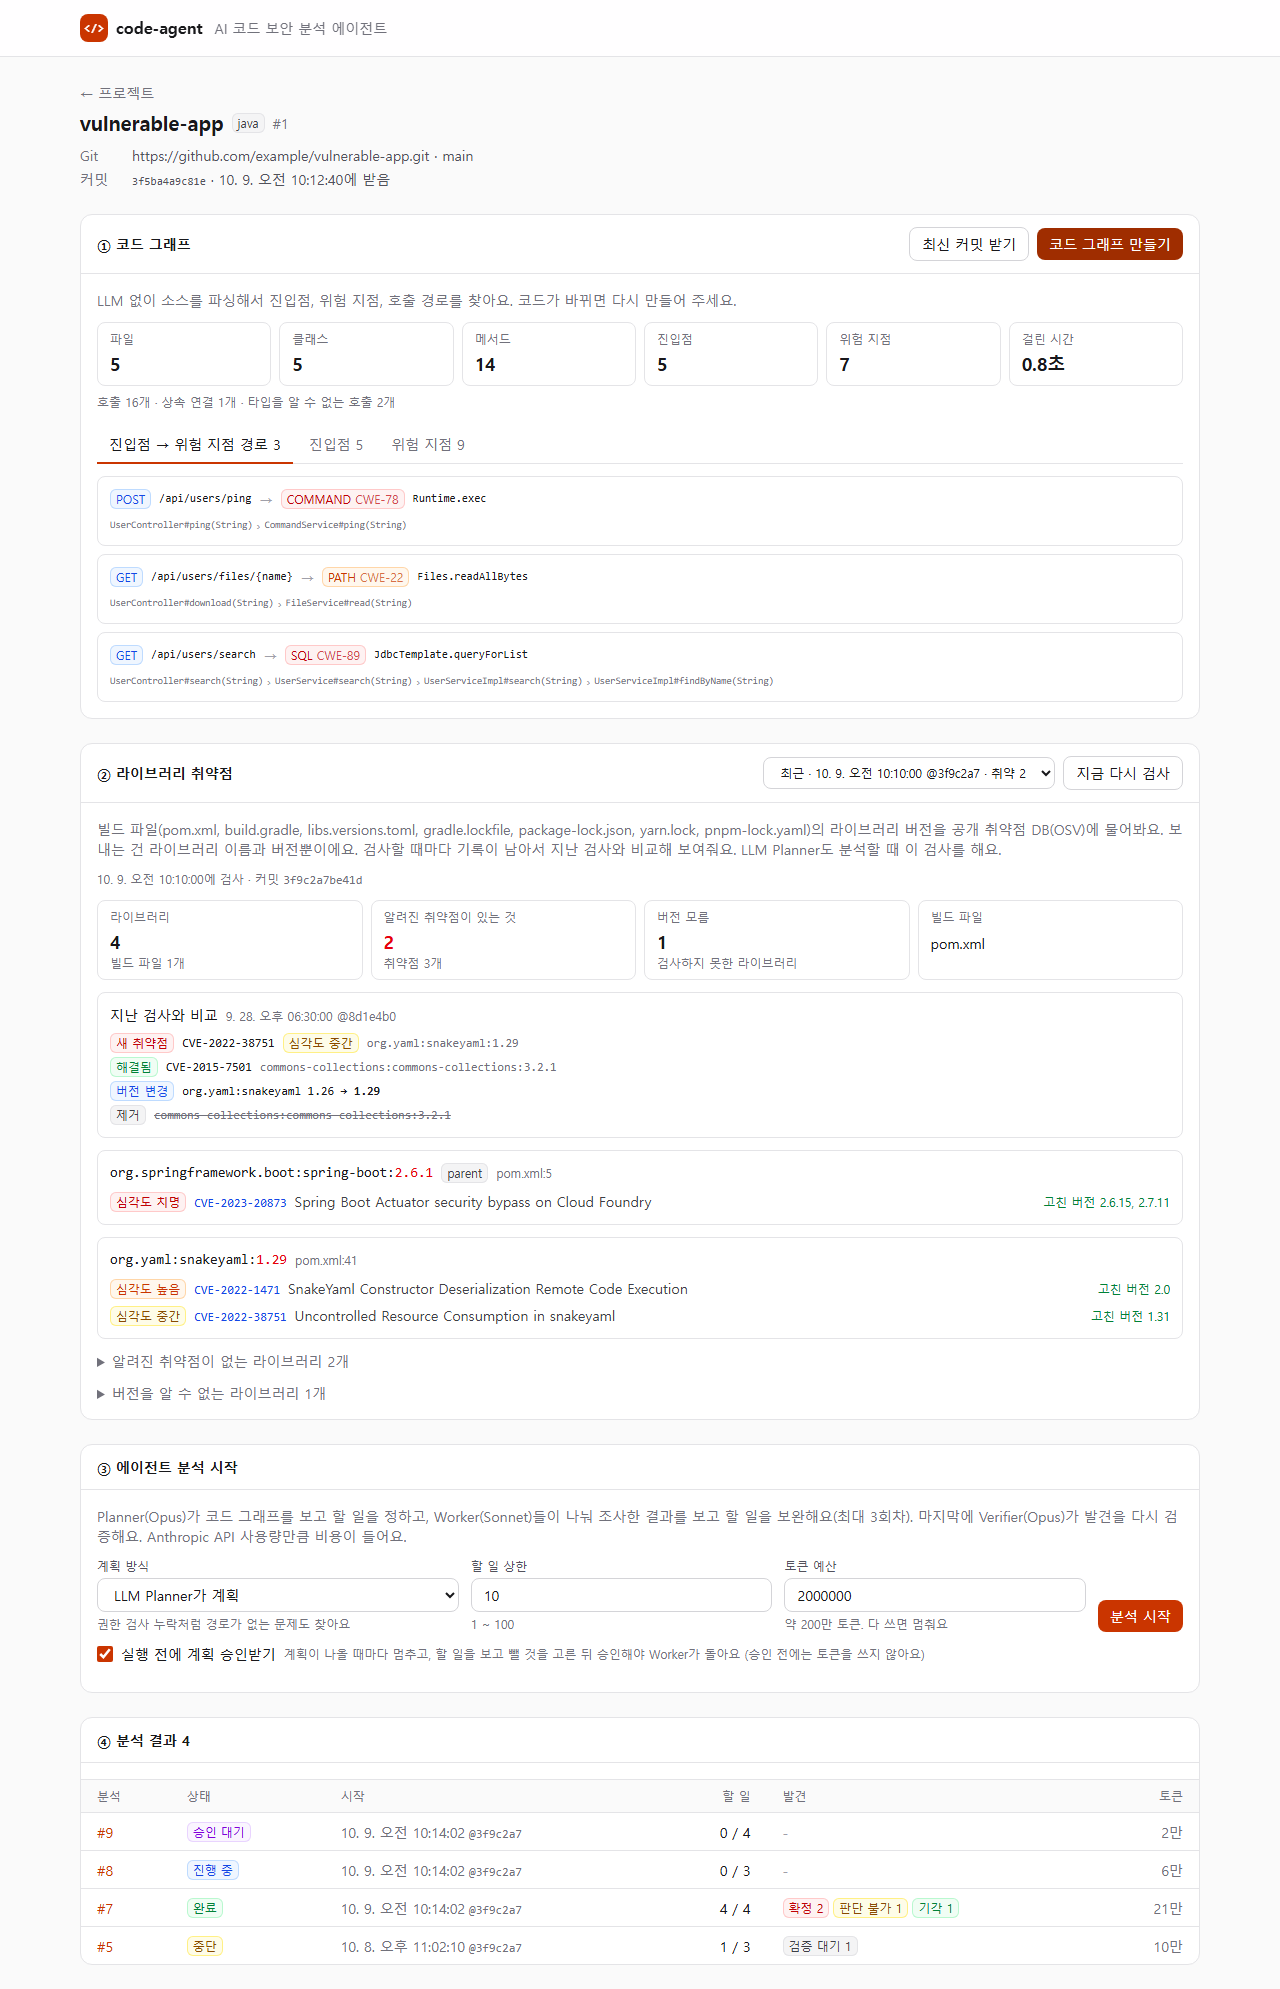
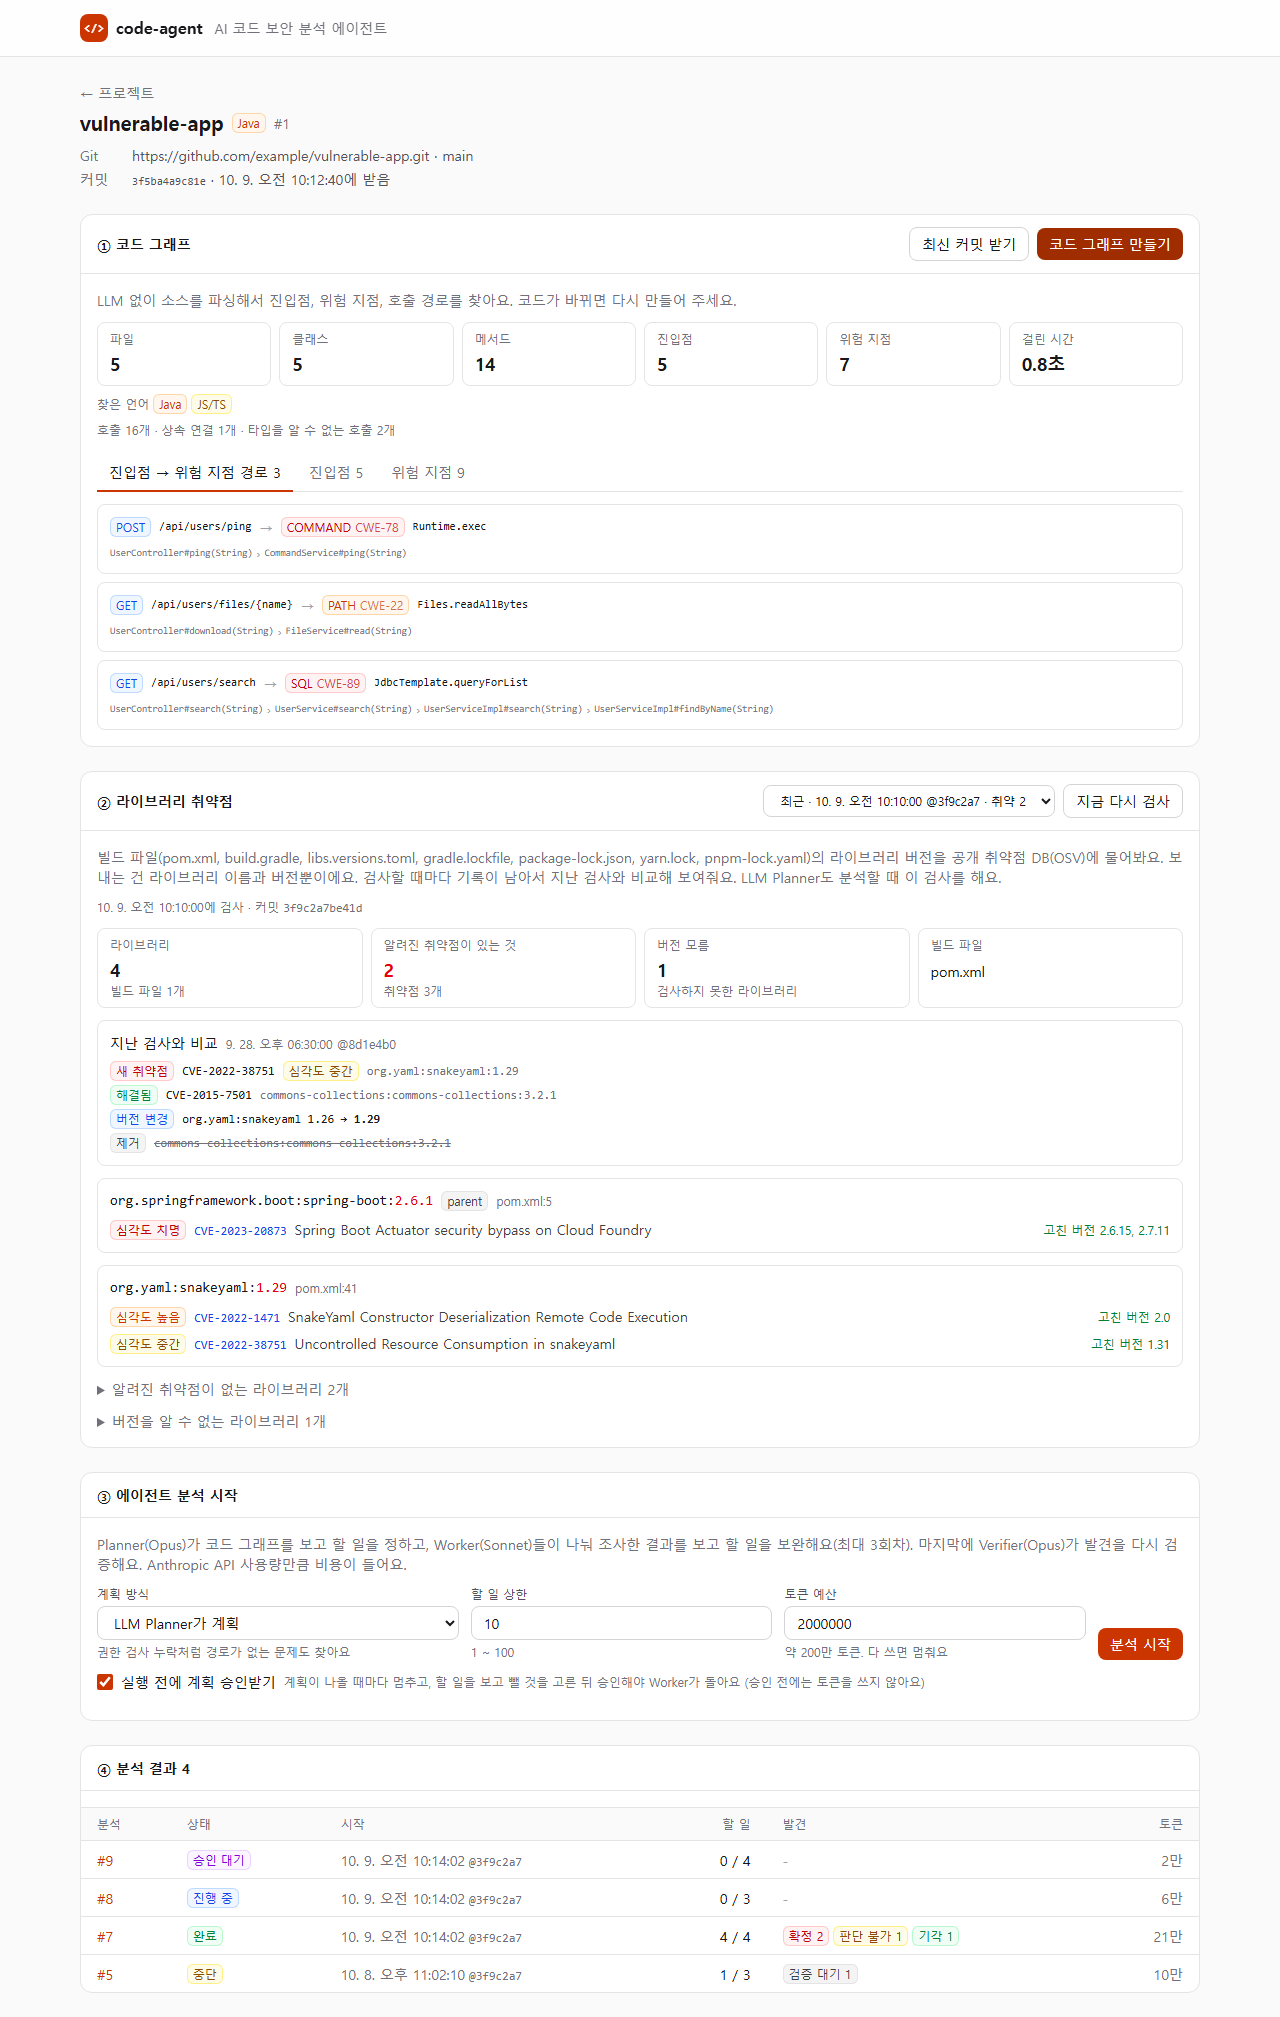
Show language badges, FastAPI Depends and Python sinks

diff --git a/src/pages/ProjectPage.tsx b/src/pages/ProjectPage.tsx
@@ -12,7 +12,7 @@ import {
 } from '../api/hooks'
 import type { IndexResult, PlannerMode, SinkPathView } from '../api/types'
 import { Badge, Button, Card, Code, Empty, ErrorBox, Field, inputClass, Loading, Stat, Tabs } from '../components/ui'
-import { CategoryBadge, JobStatusBadge } from '../components/status'
+import { CategoryBadge, JobStatusBadge, LanguageBadge, LanguageBadges } from '../components/status'
 import DependencyCard from './project/DependencyCard'
 import { formatDateTime, formatNumber, formatTokens, location, shortName } from '../lib/format'
 
@@ -35,7 +35,7 @@ export default function ProjectPage() {
         <Link to="/" className="text-sm text-zinc-500 hover:underline">← 프로젝트</Link>
         <div className="mt-1 flex flex-wrap items-center gap-2">
           <h1 className="text-xl font-semibold">{p.name}</h1>
-          <Badge>{p.language}</Badge>
+          <LanguageBadges language={p.language} />
           <span className="text-sm text-zinc-500">#{p.id}</span>
         </div>
         <dl className="mt-2 grid gap-x-6 gap-y-1 text-sm text-zinc-600 sm:grid-cols-[auto_1fr] dark:text-zinc-400">
@@ -108,6 +108,11 @@ function IndexSummary({ result }: { result: IndexResult }) {
         <Stat label="위험 지점" value={formatNumber(result.sinks)} />
         <Stat label="걸린 시간" value={`${(result.elapsedMs / 1000).toFixed(1)}초`} />
       </div>
+      {result.languages && result.languages.length > 0 && (
+        <p className="flex items-center gap-1 text-xs text-zinc-500">
+          찾은 언어 {result.languages.map((l) => <LanguageBadge key={l} language={l} />)}
+        </p>
+      )}
       <p className="text-xs text-zinc-500">
         호출 {formatNumber(result.callEdges)}개 · 상속 연결 {formatNumber(result.overrideEdges)}개 · 타입을 알 수 없는 호출{' '}
         {formatNumber(result.unresolvedCalls)}개
@@ -156,6 +161,11 @@ function CodeGraphTabs({ projectId }: { projectId: number }) {
                     <Badge tone="blue">{e.httpMethod}</Badge>
                     <Code className="font-medium">{e.path}</Code>
                     <span className="text-xs text-zinc-500">{shortName(e.handler)}</span>
+                    {e.dependencies && (e.dependencies.length > 0 ? (
+                      <span className="text-xs text-zinc-500">Depends: {e.dependencies.map(shortName).join(', ')}</span>
+                    ) : (
+                      <Badge tone="yellow">Depends 없음</Badge>
+                    ))}
                   </li>
                 ))}
               </ul>
@@ -171,6 +181,7 @@ function CodeGraphTabs({ projectId }: { projectId: number }) {
                     <div className="flex flex-wrap items-center gap-2">
                       <CategoryBadge category={s.category} cwe={s.cwe} />
                       {s.frontend && <Badge tone="blue">프론트엔드</Badge>}
+                      {s.language === 'python' && <LanguageBadge language="python" />}
                       <Code>{s.api}</Code>
                     </div>
                     <div className="mt-1 text-xs text-zinc-500">

diff --git a/e2e/mockApi.ts b/e2e/mockApi.ts
@@ -57,7 +57,32 @@ export const indexResult: IndexResult = {
   retainedNodes: 0,
   parseErrors: [],
   elapsedMs: 842,
+  languages: ['java', 'javascript'],
 }
+
+/** Python(FastAPI) 저장소 예시 */
+const pythonProject: Project = {
+  id: 4,
+  name: 'netinv',
+  repoPath: '/workspace/netinv',
+  language: 'python',
+  gitUrl: 'https://github.com/example/netinv.git',
+  gitBranch: 'main',
+  commitSha: '9a8b7c6d5e4f30211a2b3c4d5e6f708192a3b4c5',
+  syncedAt: '2026-10-10T02:00:10Z',
+  createdAt: '2026-10-10T02:00:00Z',
+}
+
+const pythonEntryPoints: EntryPointView[] = [
+  { id: 401, httpMethod: 'POST', path: '/api/scan/nmap', handler: 'app.routers.scan.run_nmap', filePath: 'app/routers/scan.py', line: 18, dependencies: ['app.deps.get_current_user'] },
+  { id: 402, httpMethod: 'GET', path: '/api/scan/fetch', handler: 'app.routers.scan.fetch', filePath: 'app/routers/scan.py', line: 28, dependencies: [] },
+]
+
+const pythonSinks: SinkView[] = [
+  { id: 411, category: 'COMMAND', cwe: 'CWE-78', api: 'asyncio.create_subprocess_exec', method: 'app.services.scanner.run_nmap', snippet: 'asyncio.create_subprocess_exec("nmap", "-sV", target)', filePath: 'app/services/scanner.py', line: 7, language: 'python' },
+  { id: 412, category: 'COMMAND', cwe: 'CWE-88', api: 'nmap.PortScanner.scan', method: 'app.services.scanner.scan_with_lib', snippet: 'nm.scan(hosts=hosts, arguments="-sV")', filePath: 'app/services/scanner.py', line: 14, language: 'python' },
+  { id: 413, category: 'SSRF', cwe: 'CWE-918', api: 'httpx.Client.get', method: 'app.routers.scan.fetch', snippet: 'client.get(url)', filePath: 'app/routers/scan.py', line: 31, language: 'python' },
+]
 
 const entryPoints: EntryPointView[] = [
   { id: 101, httpMethod: 'GET', path: '/api/users/search', handler: `${PKG}.web.UserController#search(String)`, filePath: 'src/main/java/com/example/vuln/web/UserController.java', line: 30 },
@@ -356,7 +381,12 @@ export async function mockApi(page: Page) {
     const path = url.pathname
     const method = route.request().method()
 
-    if (path === '/api/projects' && method === 'GET') return json(route, [project, otherProject])
+    if (path === '/api/projects' && method === 'GET') return json(route, [project, otherProject, pythonProject])
+    if (path === '/api/projects/4/code-graph/entry-points') return json(route, pythonEntryPoints)
+    if (path === '/api/projects/4/code-graph/sinks') return json(route, pythonSinks)
+    if (path === '/api/projects/4/code-graph/sink-paths') return json(route, [])
+    if (path === '/api/projects/4/analyses') return json(route, [])
+    if (path === '/api/projects/4/dependency-scans') return json(route, [])
     if (path === '/api/projects' && method === 'POST') {
       const body = route.request().postDataJSON()
       if (body.gitUrl?.startsWith('http://')) return json(route, { title: 'Bad Request', status: 400, detail: 'https 주소만 허용함' }, 400)

diff --git a/e2e/app.spec.ts b/e2e/app.spec.ts
@@ -9,9 +9,12 @@ test.describe('프로젝트 목록', () => {
   test('등록된 저장소를 최신순으로 보여준다', async ({ page }) => {
     await page.goto('/')
     const items = page.getByRole('listitem')
-    await expect(items).toHaveCount(2)
-    await expect(items.first()).toContainText('spring-petclinic')
-    await expect(items.nth(1)).toContainText('vulnerable-app')
+    await expect(items).toHaveCount(3)
+    await expect(items.first()).toContainText('netinv')
+    await expect(items.first()).toContainText('Python')
+    await expect(items.nth(1)).toContainText('spring-petclinic')
+    await expect(items.nth(2)).toContainText('vulnerable-app')
+    await expect(items.nth(2)).toContainText('Java')
   })
 
   test('Git 주소로 등록하면 프로젝트 화면으로 이동한다', async ({ page }) => {
@@ -59,11 +62,27 @@ test.describe('프로젝트 상세', () => {
     await expect(xss).toContainText('frontend/src/components/Comment.tsx:5')
   })
 
+  test('파이썬 프로젝트는 언어 배지, Depends, 파이썬 위험 지점을 보여준다', async ({ page }) => {
+    await page.goto('/projects/4')
+    await expect(page.getByRole('heading', { name: 'netinv' })).toBeVisible()
+    await page.getByRole('tab', { name: /^진입점 2/ }).click()
+    const nmap = page.getByRole('listitem').filter({ hasText: '/api/scan/nmap' })
+    await expect(nmap).toContainText('scan.run_nmap')
+    await expect(nmap).toContainText('Depends: deps.get_current_user')
+    await expect(page.getByRole('listitem').filter({ hasText: '/api/scan/fetch' })).toContainText('Depends 없음')
+    await page.getByRole('tab', { name: /위험 지점 3/ }).click()
+    const lib = page.getByRole('listitem').filter({ hasText: 'nmap.PortScanner.scan' })
+    await expect(lib).toContainText('CWE-88')
+    await expect(lib).toContainText('Python')
+    await expect(lib).toContainText('scanner.scan_with_lib · app/services/scanner.py:14')
+  })
+
   test('코드 그래프를 만들면 통계를 보여준다', async ({ page }) => {
     await page.goto('/projects/1')
     await page.getByRole('button', { name: '코드 그래프 만들기' }).click()
     await expect(page.getByText('메서드', { exact: true })).toBeVisible()
     await expect(page.getByText('0.8초')).toBeVisible()
+    await expect(page.getByText('찾은 언어')).toContainText('JS/TS')
   })
 
   test('분석 목록을 백엔드에서 받아 보여준다', async ({ page }) => {

diff --git a/src/components/status.tsx b/src/components/status.tsx
@@ -96,6 +96,29 @@ const CATEGORY_TONES: Record<string, Tone> = {
   IDOR: 'purple',
 }
 
+const LANGUAGES: Record<string, [string, Tone]> = {
+  java: ['Java', 'orange'],
+  python: ['Python', 'blue'],
+  javascript: ['JS/TS', 'yellow'],
+}
+
+/** 언어 하나 (java → Java). 모르는 값은 그대로 */
+export function LanguageBadge({ language }: { language: string }) {
+  const [label, tone] = LANGUAGES[language] ?? [language, 'gray' as Tone]
+  return <Badge tone={tone}>{label}</Badge>
+}
+
+/** 프로젝트 언어 (예: "java,python") 를 언어마다 배지로 */
+export function LanguageBadges({ language }: { language: string | null | undefined }) {
+  const languages = (language ?? '').split(',').map((l) => l.trim()).filter(Boolean)
+  if (languages.length === 0) return null
+  return (
+    <span className="inline-flex flex-wrap gap-1">
+      {languages.map((l) => <LanguageBadge key={l} language={l} />)}
+    </span>
+  )
+}
+
 export function CategoryBadge({ category, cwe }: { category: string; cwe?: string }) {
   return (
     <Badge tone={CATEGORY_TONES[category] ?? 'gray'}>

diff --git a/src/pages/ProjectsPage.tsx b/src/pages/ProjectsPage.tsx
@@ -1,7 +1,8 @@
 import { useState, type FormEvent } from 'react'
 import { Link, useNavigate } from 'react-router'
 import { useCreateProject, useProjects } from '../api/hooks'
-import { Badge, Button, Card, Empty, ErrorBox, Field, inputClass, Loading, Tabs } from '../components/ui'
+import { Button, Card, Empty, ErrorBox, Field, inputClass, Loading, Tabs } from '../components/ui'
+import { LanguageBadges } from '../components/status'
 import { formatDateTime } from '../lib/format'
 
 type SourceKind = 'git' | 'local'
@@ -32,7 +33,7 @@ export default function ProjectsPage() {
                 className="-mx-2 flex flex-wrap items-center gap-x-3 gap-y-1 rounded-lg px-2 py-3 hover:bg-zinc-50 dark:hover:bg-zinc-800/50"
               >
                 <span className="font-medium">{project.name}</span>
-                <Badge>{project.language}</Badge>
+                <LanguageBadges language={project.language} />
                 {project.gitUrl ? (
                   <span className="min-w-0 truncate text-sm text-zinc-500">
                     {project.gitUrl}

diff --git a/src/api/types.ts b/src/api/types.ts
@@ -33,6 +33,8 @@ export interface IndexResult {
   retainedNodes: number
   parseErrors: string[]
   elapsedMs: number
+  /** 저장소에서 찾은 언어 (java, python, javascript) */
+  languages?: string[]
 }
 
 export interface CodeNodeView {
@@ -50,6 +52,8 @@ export interface EntryPointView {
   handler: string
   filePath: string | null
   line: number | null
+  /** FastAPI 진입점의 Depends(...) 의존 함수. Java 진입점은 null (정보 없음) */
+  dependencies?: string[] | null
 }
 
 export interface SinkView {
@@ -63,6 +67,8 @@ export interface SinkView {
   line: number | null
   /** 프론트엔드(JS/TS/Vue/HTML) 코드의 위험 지점. 진입점에서 이어지는 경로가 없다 */
   frontend?: boolean
+  /** 코드 언어 (java, python, javascript) */
+  language?: string | null
 }
 
 export interface SinkPathView {

diff --git a/src/lib/format.ts b/src/lib/format.ts
@@ -32,6 +32,8 @@ export function formatDuration(startIso: string | null, endIso: string | null) {
 /** com.example.vuln.service.UserServiceImpl#search(String) → UserServiceImpl#search(String) */
 export function shortName(qualifiedName: string) {
   const hash = qualifiedName.indexOf('#')
+  // '#' 이 없는 Python 이름은 마지막 두 부분 (app.routers.scan.run_nmap → scan.run_nmap)
+  if (hash < 0) return qualifiedName.split('.').slice(-2).join('.')
   const owner = hash < 0 ? qualifiedName : qualifiedName.slice(0, hash)
   const simple = owner.slice(owner.lastIndexOf('.') + 1)
   return hash < 0 ? simple : simple + qualifiedName.slice(hash)

diff --git a/e2e/screenshots.spec.ts b/e2e/screenshots.spec.ts
@@ -12,7 +12,7 @@ test.beforeEach(async ({ page }) => {
 
 test('@screenshot 프로젝트 목록', async ({ page }) => {
   await page.goto('/')
-  await expect(page.getByRole('listitem')).toHaveCount(2)
+  await expect(page.getByRole('listitem')).toHaveCount(3)
   await page.screenshot({ path: `${DIR}/projects.png` })
 })
 

diff --git a/README.md b/README.md
@@ -55,8 +55,8 @@ claude plugin install code-agent@yeomyaloo-code-agent
 
 | Page | What it does | API used |
 |---|---|---|
-| **Projects** `/` | Register a repository by Git URL or server folder path, list registered repositories | `POST /api/projects`, `GET /api/projects` |
-| **Project detail** `/projects/:id` | Pull the latest commit, build the code graph (file, method, entry point and sink stats), browse entry point → sink paths, entry points and sinks (frontend JS/TS sinks are marked), library vulnerabilities (build files + OSV, on demand; scan history and comparison with the previous scan), analyzed commit per analysis, start an analysis (planning mode: LLM Planner / mechanically per path; optionally wait for human approval of each plan), analysis list (status, finished tasks, finding counts, tokens) | `/sync`, `/index`, `/code-graph/*`, `/dependency-scans`, `POST·GET /analyses` |
+| **Projects** `/` | Register a repository by Git URL or server folder path, list registered repositories with language badges (Java, Python, JS/TS; detected when the code graph is built) | `POST /api/projects`, `GET /api/projects` |
+| **Project detail** `/projects/:id` | Pull the latest commit, build the code graph (file, method, entry point and sink stats), browse entry point → sink paths, entry points and sinks (frontend JS/TS and Python sinks are marked; FastAPI entry points show their `Depends(...)` dependencies or a "no Depends" warning), library vulnerabilities (build files + OSV, on demand; scan history and comparison with the previous scan), analyzed commit per analysis, start an analysis (planning mode: LLM Planner / mechanically per path; optionally wait for human approval of each plan), analysis list (status, finished tasks, finding counts, tokens) | `/sync`, `/index`, `/code-graph/*`, `/dependency-scans`, `POST·GET /analyses` |
 | **Analysis** `/analyses/:id` | Plan approval while `WAITING_APPROVAL` (drop tasks, approve or reject) and the approval history, real-time progress (server events, SSE; falls back to 2-second polling), token usage, findings (Verifier verdict, evidence code, attack example), human review, the Planner's per-round plans and per-task conclusions, agent log timeline, HTML and SARIF reports | `GET /analyses/:id`, `/approve`, `/reject`, `/traces`, `/findings/:id/review`, `/verify`, `/report.*` |
 
 The **Agent log** tab shows what the agent did, in order: what Claude thought, which tools it called, and what results it got back. While an analysis is running, it follows new entries automatically.
@@ -223,8 +223,8 @@ claude plugin install code-agent@yeomyaloo-code-agent
 
 | 화면 | 하는 일 | 쓰는 API |
 |---|---|---|
-| **프로젝트** `/` | Git 주소나 서버 폴더 경로로 저장소 등록, 등록된 저장소 목록 | `POST /api/projects`, `GET /api/projects` |
-| **프로젝트 상세** `/projects/:id` | 최신 커밋 받기, 코드 그래프 만들기(파일·메서드·진입점·위험 지점 통계), 진입점 → 위험 지점 경로·진입점·위험 지점 조회(프론트엔드 JS/TS 위험 지점 표시), 라이브러리 취약점(빌드 파일 + OSV, 버튼을 누를 때만. 검사 기록과 지난 검사와의 비교), 분석마다 분석한 커밋, 분석 시작(계획 방식: LLM Planner / 경로마다 기계적으로, 계획마다 사람 승인받기 선택), 분석 목록(상태·할 일·발견 개수·토큰) | `/sync`, `/index`, `/code-graph/*`, `/dependency-scans`, `POST·GET /analyses` |
+| **프로젝트** `/` | Git 주소나 서버 폴더 경로로 저장소 등록, 등록된 저장소 목록(언어 배지: Java, Python, JS/TS. 코드 그래프를 만들 때 판별) | `POST /api/projects`, `GET /api/projects` |
+| **프로젝트 상세** `/projects/:id` | 최신 커밋 받기, 코드 그래프 만들기(파일·메서드·진입점·위험 지점 통계), 진입점 → 위험 지점 경로·진입점·위험 지점 조회(프론트엔드 JS/TS·Python 위험 지점 표시, FastAPI 진입점은 `Depends(...)` 의존 함수나 'Depends 없음' 경고), 라이브러리 취약점(빌드 파일 + OSV, 버튼을 누를 때만. 검사 기록과 지난 검사와의 비교), 분석마다 분석한 커밋, 분석 시작(계획 방식: LLM Planner / 경로마다 기계적으로, 계획마다 사람 승인받기 선택), 분석 목록(상태·할 일·발견 개수·토큰) | `/sync`, `/index`, `/code-graph/*`, `/dependency-scans`, `POST·GET /analyses` |
 | **분석** `/analyses/:id` | 승인 대기(`WAITING_APPROVAL`) 중이면 계획 승인(할 일 빼기·승인·거절)과 승인 기록, 실시간 진행 상황(서버 이벤트 SSE, 끊기면 2초 폴링), 토큰 사용량, 발견 목록(Verifier 판정·근거 코드·공격 예시), 사람 검토, Planner 회차별 계획과 할 일별 결론, 에이전트 기록 타임라인, HTML·SARIF 보고서 | `GET /analyses/:id`, `/approve`, `/reject`, `/traces`, `/findings/:id/review`, `/verify`, `/report.*` |
 
 **에이전트 기록** 탭에서는 에이전트가 한 일을 순서대로 볼 수 있다. Claude가 무슨 생각을 했고, 어떤 도구를 불렀고, 무슨 결과를 받았는지가 나온다. 분석이 진행 중이면 새 기록을 자동으로 따라간다.
